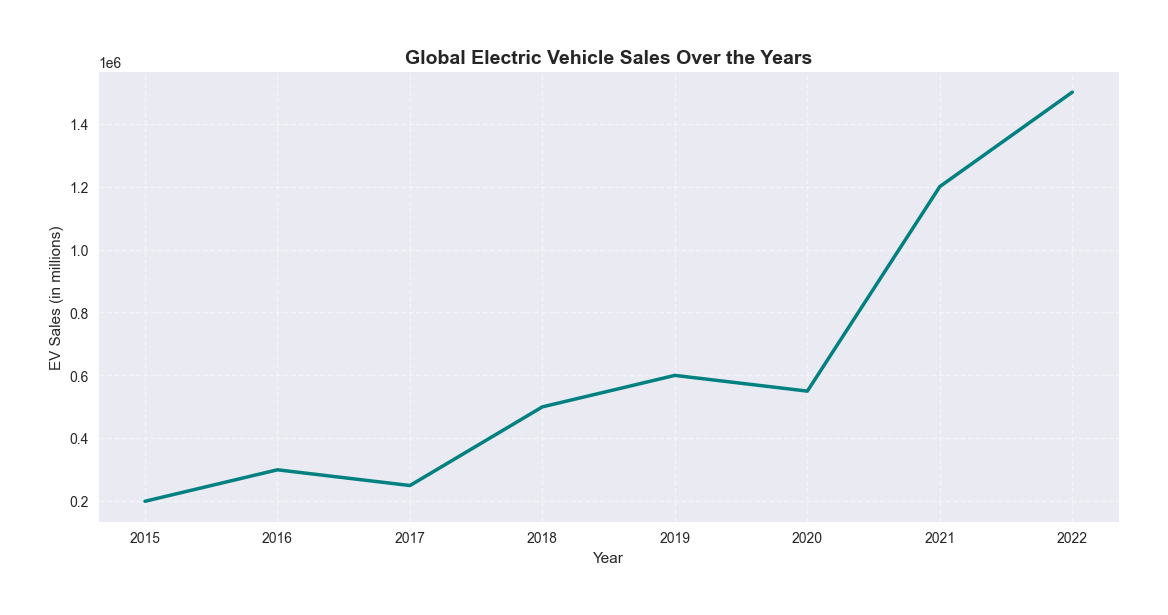
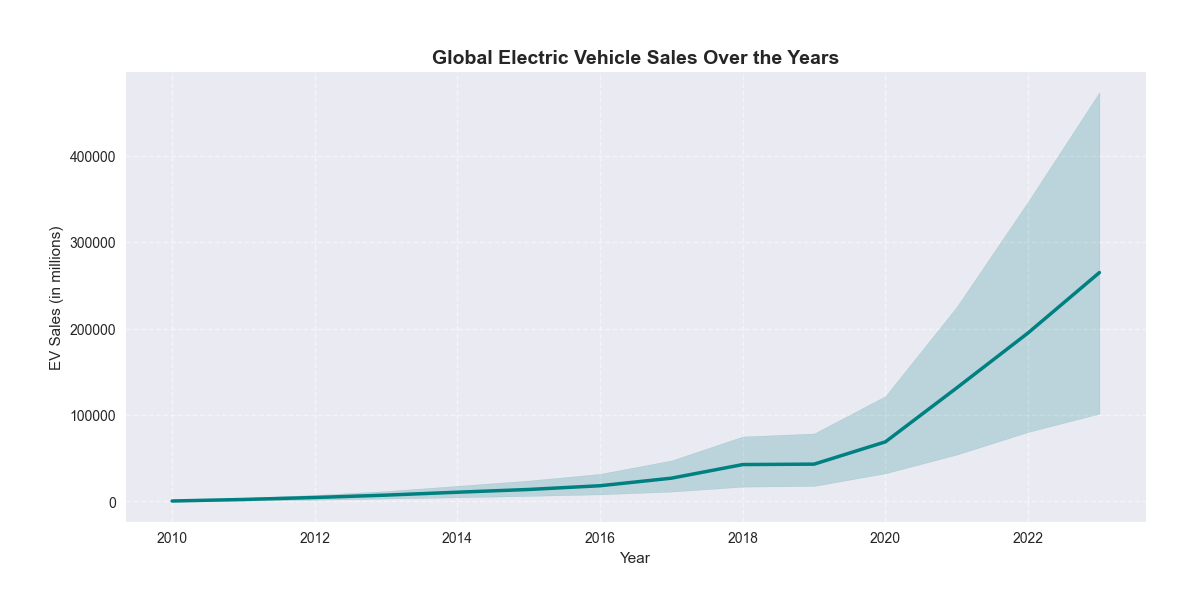
Updated Week 2 with ML model and visuals

diff --git a/.ipynb_checkpoints/README-checkpoint.md b/.ipynb_checkpoints/README-checkpoint.md
@@ -1,0 +1,2 @@
+# EV-Sales-Prediction
+“AICTE – EduNet Internship Project (Electric Vehicle Theme): Predicting and analyzing EV sales trends globally using machine learning.”
